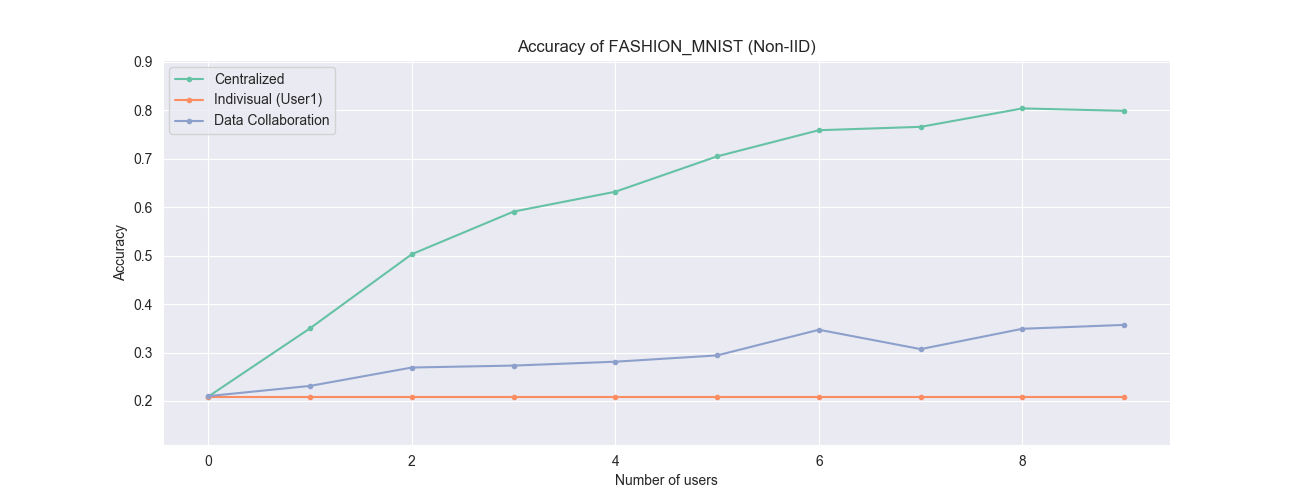
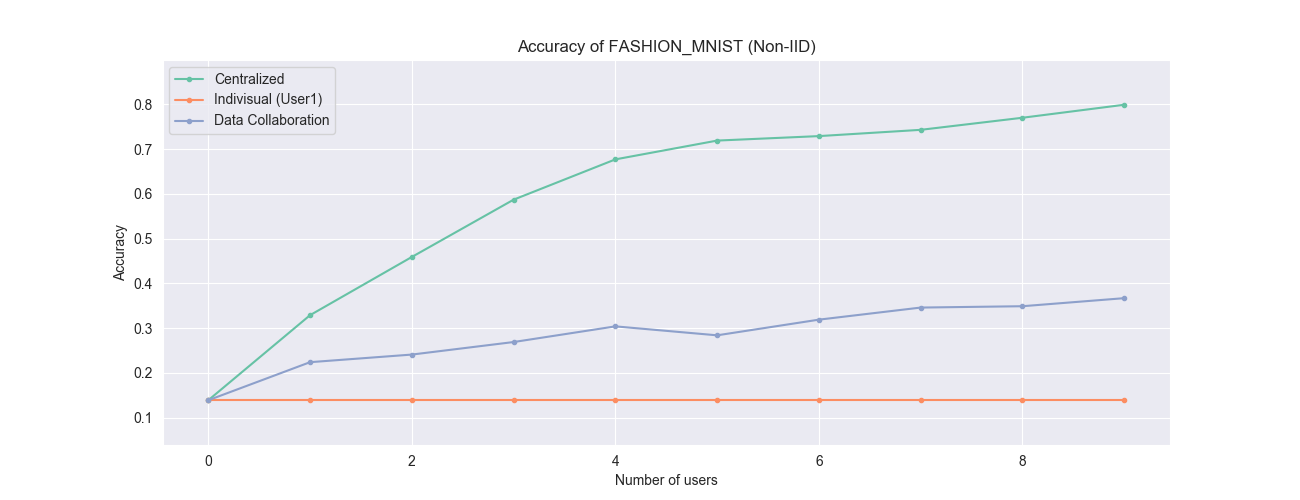
change default parameter to iid = 1

diff --git a/src/dc_main.py b/src/dc_main.py
@@ -99,6 +99,16 @@ if __name__ == '__main__':
     print('Individual average accuracy:', ind)
     print('Collaboration average accuracy:', dc)
 
+    try:
+        with open('save/logs' + datetime.datetime.now().strftime("%y-%m-%d-%H-%M")+'.txt', 'w') as log:
+            print(args, file=log)
+            print("Centralized = {}".format(centr), file=log)
+            print("Individual = {}".format(ind), file=log)
+            print("DC= {}".format(dc), file=log)
+                
+    except IOError:
+        print('File Error')
+
     dir_path = "./"
     plt.figure(figsize=(13,5))
     plt.plot(centr, label='Centralized', marker=".")

diff --git a/src/options.py b/src/options.py
@@ -23,7 +23,7 @@ def args_parser():
     # data arguments
     parser.add_argument('--dataset', type=str, choices=['mnist', 'fashion_mnist', 'cifar'],
                         default='fashion_mnist', help="name of dataset")
-    parser.add_argument('--iid', type=int, default=0,
+    parser.add_argument('--iid', type=int, default=1,
                         help='Default set to IID. Set to 0 for non-IID.')
 
     # model arguments
